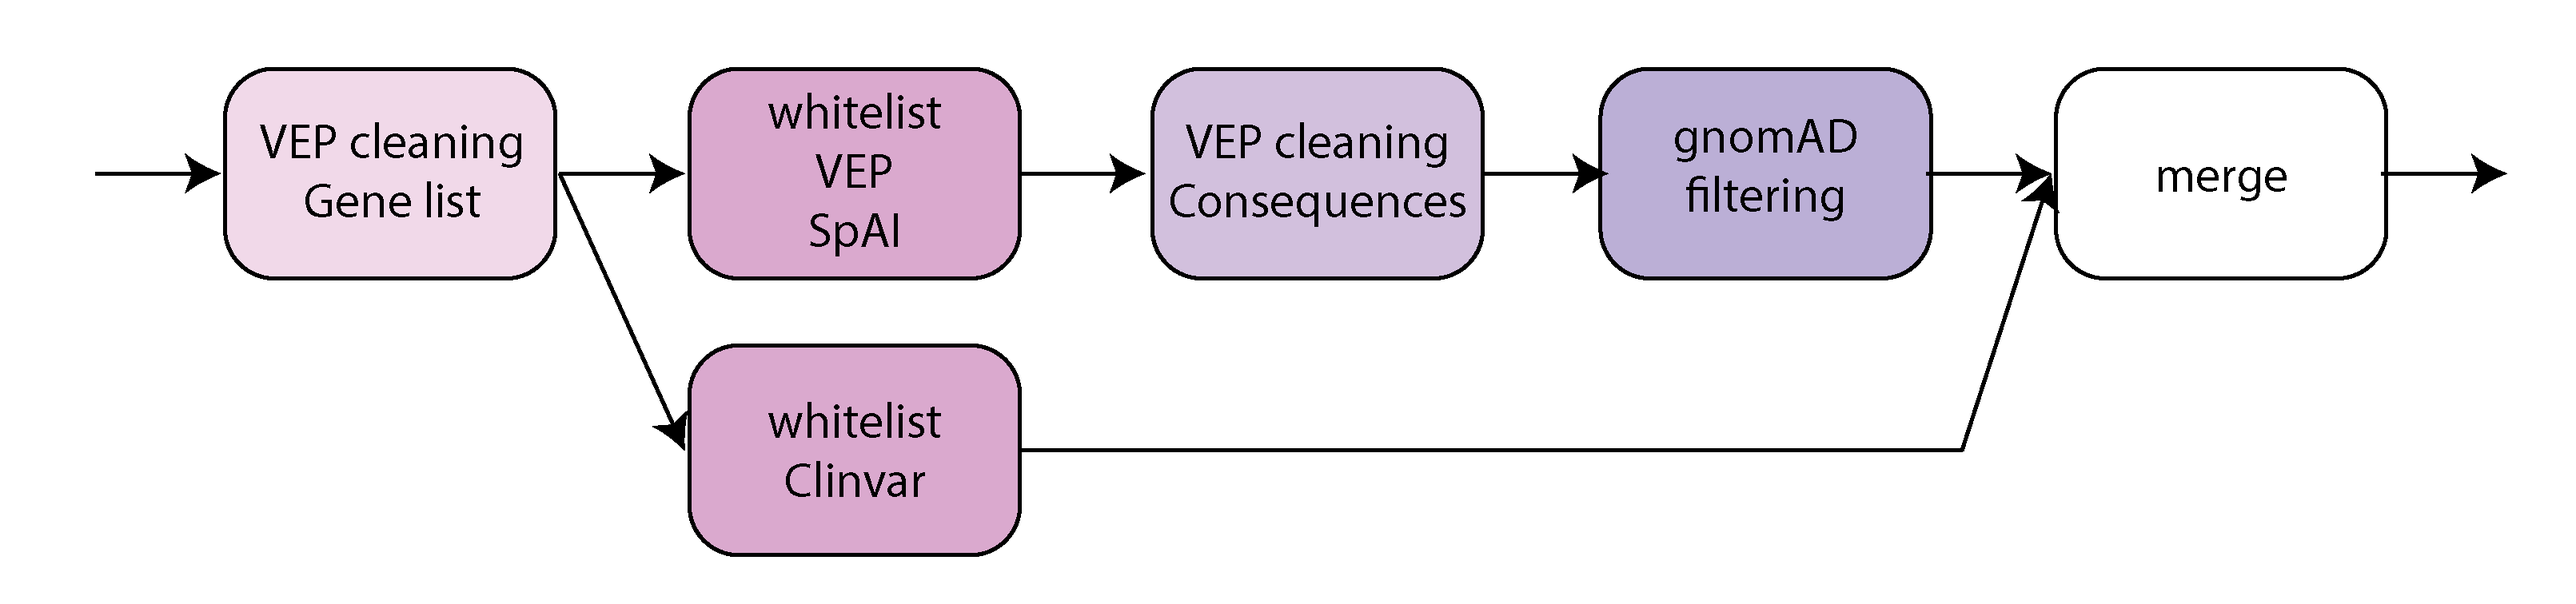
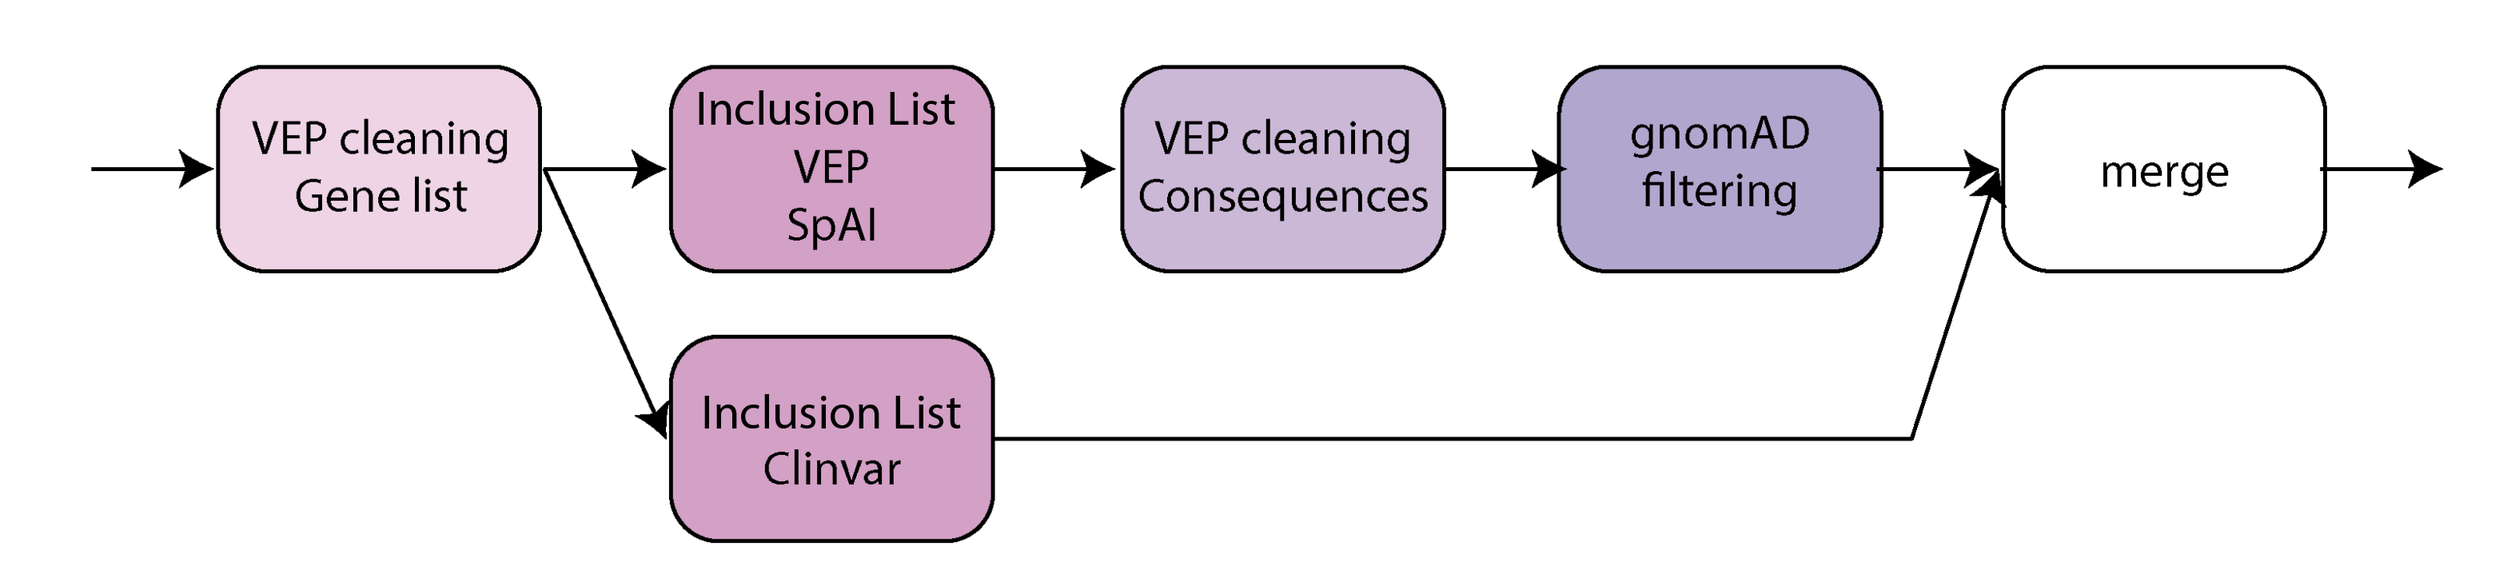
docs update

diff --git a/docs/Pipelines/Downstream/SNV_germline/Pages/SNV_germline-step-filtering.rst b/docs/Pipelines/Downstream/SNV_germline/Pages/SNV_germline-step-filtering.rst
@@ -32,7 +32,7 @@ This intermediate step uses ``granite geneList`` to clean VEP annotations for tr
 Inclusion list
 --------------
 
-These intermediate steps use ``granite`` function to filter-in exonic and functionally relevant variants based on VEP, ClinVar, and SpliceAI annotations. The ClinVar Inclusion list is applied separately and the variants are not cleaned and filtered further by VEP cleaning and Exclusion list.
+These intermediate steps use a ``granite`` function to filter-in exonic and functionally relevant variants based on VEP, ClinVar, and SpliceAI annotations. The ClinVar Inclusion list is applied separately and the variants are not cleaned and filtered further by VEP cleaning and Exclusion list.
 
 Criteria for Inclusion list:
 
@@ -48,7 +48,7 @@ This intermediate step uses ``granite cleanVCF`` to clean VEP annotations and re
 Exclusion list
 --------------
 
-This intermediate step uses ``granite`` function to filter-out common and shared variants based on gnomAD population allele frequency (AF > 0.01) and/or a panel of unrelated samples (optional, not used currently).
+This intermediate step uses a ``granite`` function to filter-out common and shared variants based on gnomAD population allele frequency (AF > 0.01) and/or a panel of unrelated samples (optional, not used currently).
 
 Merging
 -------
